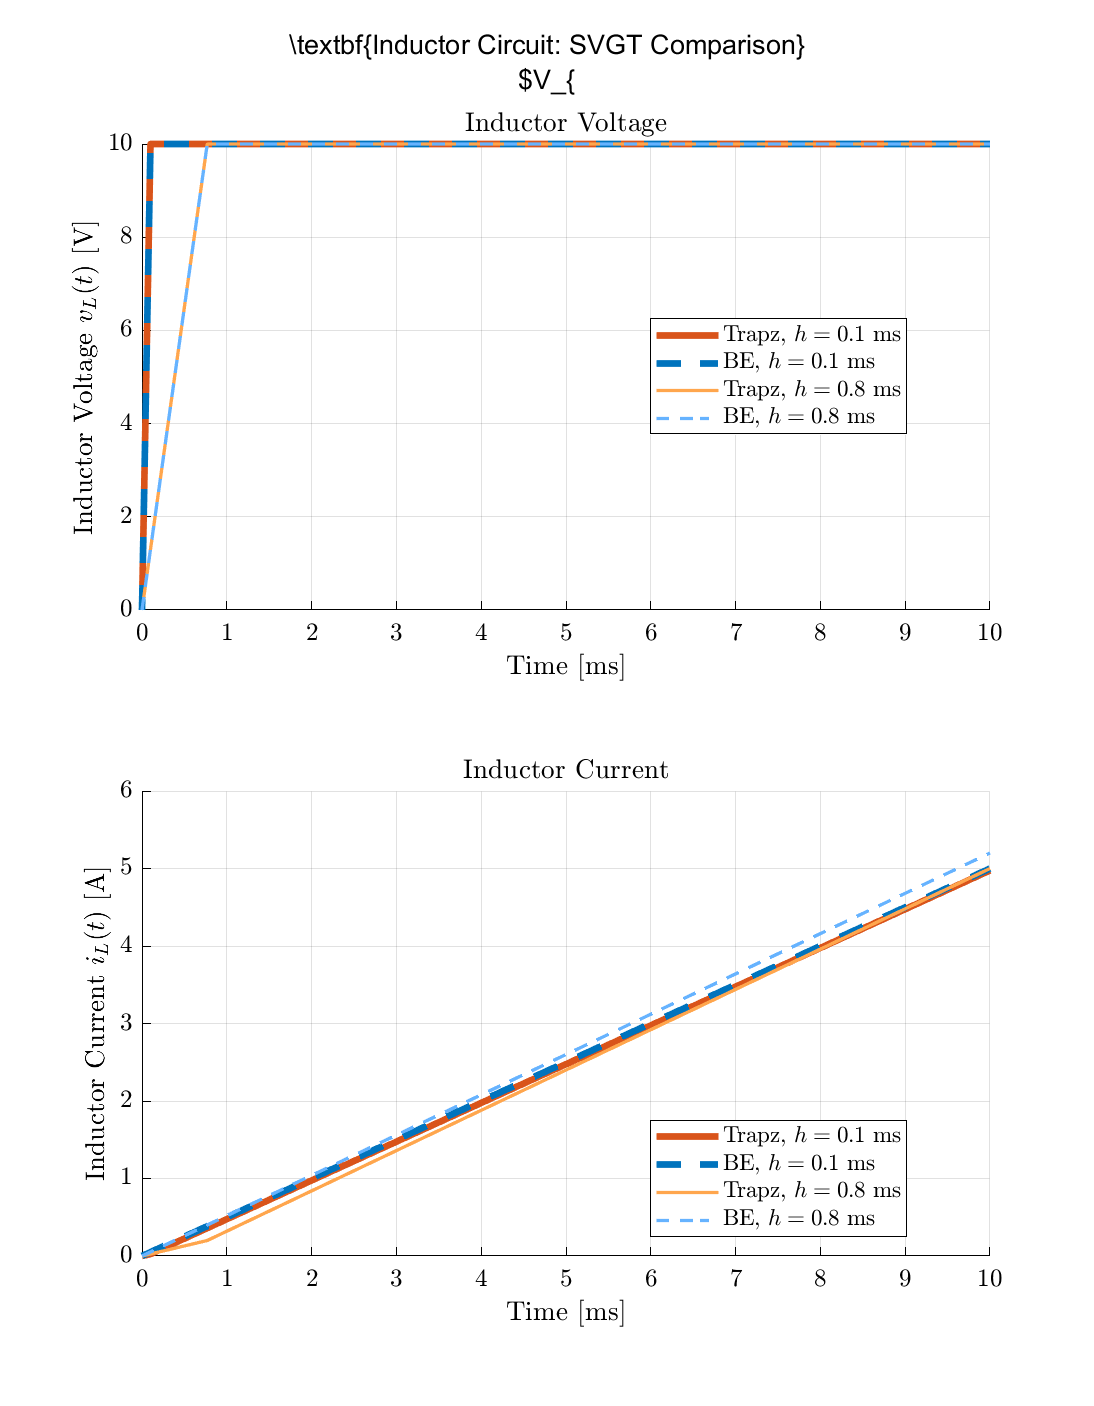
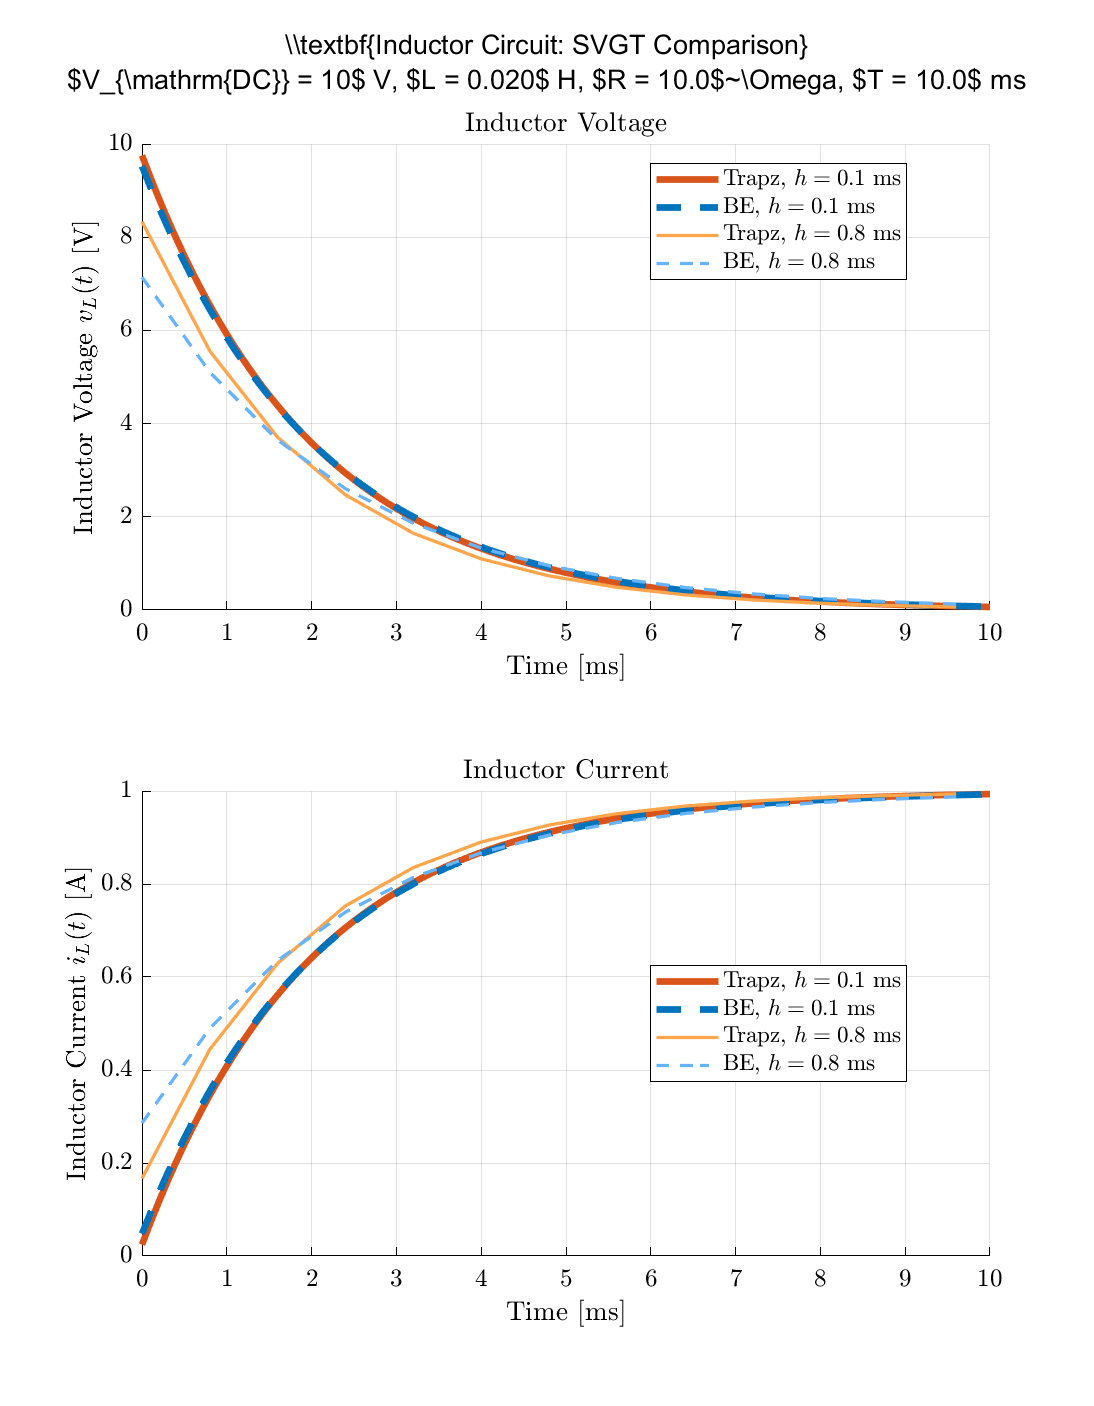
huh?

diff --git a/ee582/src_Hw02/hw02_qB2.m b/ee582/src_Hw02/hw02_qB2.m
@@ -13,71 +13,54 @@ h_steps_ms = [0.1, 0.8]; % Time steps [ms]
 T_horizon_ms = 10;
 T_horizon = T_horizon_ms * 1e-3; % Simulation time [s]
 
+% --- RL Trapezoidal and BE update (corrected) ---
 results = struct();
-
 for h_idx = 1:length(h_steps_ms)
     h_ms = h_steps_ms(h_idx);
     h = h_ms * 1e-3;
-    N = round(T_horizon/h) + 1;
-    t = linspace(0, T_horizon, N);
-    v = V_DC * ones(1, N); v(1) = 0;
-    
-    % --- Trapezoidal ---
+    t = 0:h:T_horizon;
+    N = length(t);
+    % Initial conditions
+    i_trapz = zeros(1, N); vL_trapz = zeros(1, N);
+    i_BE = zeros(1, N); vL_BE = zeros(1, N);
+    % Trapezoidal parameters
     R_L_trapz = 2*L/h;
-    i_trapz = zeros(1, N);
-    v_trapz = zeros(1, N);
-    e_h_trapz = zeros(1, N);
-    i_h_trapz = zeros(1, N);
-    for n = 2:N
-        e_h_trapz(n) = R_L_trapz * i_trapz(n-1) + v(n-1);
-        i_h_trapz(n) = e_h_trapz(n) / R_L_trapz;
-        i_trapz(n) = v(n)/R_L_trapz + i_h_trapz(n);
-        v_trapz(n) = v(n); % For this circuit, v(t) is just the source
+    e_h_trapz = 0;
+    for n = 1:N
+        % Trapezoidal: compute i(t) then vL(t)
+        i_trapz(n) = (V_DC + e_h_trapz) / (R + R_L_trapz);
+        vL_trapz(n) = R_L_trapz * i_trapz(n) - e_h_trapz;
+        % Update history term for next step
+        e_h_trapz = R_L_trapz * i_trapz(n) + vL_trapz(n);
     end
-    
-    % --- Backward Euler ---
+    % Backward Euler parameters
     R_L_BE = L/h;
-    i_BE = zeros(1, N);
-    v_BE = zeros(1, N);
-    e_h_BE = zeros(1, N);
-    i_h_BE = zeros(1, N);
-    for n = 2:N
-        e_h_BE(n) = R_L_BE * i_BE(n-1);
-        i_h_BE(n) = i_BE(n-1);
-        i_BE(n) = v(n)/R_L_BE + i_h_BE(n);
-        v_BE(n) = v(n); % For this circuit, v(t) is just the source
+    e_h_BE = 0;
+    for n = 1:N
+        % BE: i(t) = (V_DC + e_h_BE) / (R + R_L_BE)
+        i_BE(n) = (V_DC + e_h_BE) / (R + R_L_BE);
+        vL_BE(n) = R_L_BE * i_BE(n) - e_h_BE;
+        % Update history term for next step
+        e_h_BE = R_L_BE * i_BE(n);
     end
-    
-    % Store results
     results(h_idx).h_ms = h_ms;
     results(h_idx).t = t;
     results(h_idx).i_trapz = i_trapz;
-    results(h_idx).v_trapz = v_trapz;
+    results(h_idx).vL_trapz = vL_trapz;
     results(h_idx).i_BE = i_BE;
-    results(h_idx).v_BE = v_BE;
+    results(h_idx).vL_BE = vL_BE;
+    results(h_idx).R_L_trapz = R_L_trapz;
+    results(h_idx).R_L_BE = R_L_BE;
 end
 
 %% Plot Results
 figure('Name', 'Inductor SVGT: Trapz vs BE (Both h)', 'Color', 'w', 'Position', [100 100 700 900]);
-sgtitle({'\textbf{Inductor Circuit: SVGT Comparison}', ...
-    sprintf('$V_{\mathrm{DC}} = %.0f$ V, $L = %.3f$ H, $T = %.1f$ ms', V_DC, L, T_horizon*1e3)}, ...
+sgtitle({'\\textbf{Inductor Circuit: SVGT Comparison}', ...
+    sprintf('$V_{\\mathrm{DC}} = %.0f$ V, $L = %.3f$ H, $R = %.1f$~\\Omega, $T = %.1f$ ms', V_DC, L, R, T_horizon*1e3)}, ...
     'Interpreter', 'latex', 'FontSize', 13);
-
-% --- Voltage subplot (top) ---
-subplot(2,1,1); hold on;
-plot(results(1).t*1e3, results(1).v_trapz, '-', 'Color', [0.85, 0.33, 0.10], 'LineWidth', 3.2, 'DisplayName', 'Trapz, $h=0.1$ ms');
-plot(results(1).t*1e3, results(1).v_BE, '--', 'Color', [0.00, 0.45, 0.74], 'LineWidth', 3.2, 'DisplayName', 'BE, $h=0.1$ ms');
-plot(results(2).t*1e3, results(2).v_trapz, '-', 'Color', [1.0, 0.65, 0.30], 'LineWidth', 1.6, 'DisplayName', 'Trapz, $h=0.8$ ms');
-plot(results(2).t*1e3, results(2).v_BE, '--', 'Color', [0.40, 0.70, 1.00], 'LineWidth', 1.6, 'DisplayName', 'BE, $h=0.8$ ms');
-grid on;
-xlabel('Time [ms]', 'Interpreter', 'latex');
-ylabel('Inductor Voltage $v_L(t)$ [V]', 'Interpreter', 'latex');
-title('Inductor Voltage', 'Interpreter', 'latex');
-legend('Location', 'best', 'Interpreter', 'latex');
 
 % --- Current subplot (bottom) ---
 subplot(2,1,2); hold on;
-% Style: Trapz 0.1ms = thick solid, BE 0.1ms = thick dashed, Trapz 0.8ms = thin solid, BE 0.8ms = thin dashed
 plot(results(1).t*1e3, results(1).i_trapz, '-', 'Color', [0.85, 0.33, 0.10], 'LineWidth', 3.2, 'DisplayName', 'Trapz, $h=0.1$ ms');
 plot(results(1).t*1e3, results(1).i_BE, '--', 'Color', [0.00, 0.45, 0.74], 'LineWidth', 3.2, 'DisplayName', 'BE, $h=0.1$ ms');
 plot(results(2).t*1e3, results(2).i_trapz, '-', 'Color', [1.0, 0.65, 0.30], 'LineWidth', 1.6, 'DisplayName', 'Trapz, $h=0.8$ ms');
@@ -88,23 +71,37 @@ ylabel('Inductor Current $i_L(t)$ [A]', 'Interpreter', 'latex');
 title('Inductor Current', 'Interpreter', 'latex');
 legend('Location', 'best', 'Interpreter', 'latex');
 
+% --- Voltage subplot (top) ---
+subplot(2,1,1); hold on;
+plot(results(1).t*1e3, results(1).vL_trapz, '-', 'Color', [0.85, 0.33, 0.10], 'LineWidth', 3.2, 'DisplayName', 'Trapz, $h=0.1$ ms');
+plot(results(1).t*1e3, results(1).vL_BE, '--', 'Color', [0.00, 0.45, 0.74], 'LineWidth', 3.2, 'DisplayName', 'BE, $h=0.1$ ms');
+plot(results(2).t*1e3, results(2).vL_trapz, '-', 'Color', [1.0, 0.65, 0.30], 'LineWidth', 1.6, 'DisplayName', 'Trapz, $h=0.8$ ms');
+plot(results(2).t*1e3, results(2).vL_BE, '--', 'Color', [0.40, 0.70, 1.00], 'LineWidth', 1.6, 'DisplayName', 'BE, $h=0.8$ ms');
+grid on;
+xlabel('Time [ms]', 'Interpreter', 'latex');
+ylabel('Inductor Voltage $v_L(t)$ [V]', 'Interpreter', 'latex');
+title('Inductor Voltage', 'Interpreter', 'latex');
+legend('Location', 'best', 'Interpreter', 'latex');
+
 % Save figure
 figuresFolder = "../tex_Hw02/figures/";
 if ~exist(figuresFolder, 'dir'), mkdir(figuresFolder); end
 saveas(gcf, fullfile(figuresFolder, 'hw02_qB2_svgt_comparison.png'));
 
-%% Print Tables (first 6 steps for each method/step)
+% --- Print Tables (first 6 steps for each method/step) ---
 for h_idx = 1:length(h_steps_ms)
-    fprintf('\n=== Trapezoidal Table (h = %.1f ms) ===\n', h_steps_ms(h_idx));
-    fprintf('%-8s %-12s %-12s\n', 't [ms]', 'v(t) [V]', 'i(t) [A]');
+    fprintf('\nTrapezoidal: R_L = %.6f Ohm\n', results(h_idx).R_L_trapz);
+    fprintf('=== Trapezoidal Table (h = %.1f ms) ===\n', h_steps_ms(h_idx));
+    fprintf('%-8s %-12s %-12s\n', 't [ms]', 'v_L(t) [V]', 'i(t) [A]');
     fprintf('%s\n', repmat('-',1,36));
     for n = 1:min(6, length(results(h_idx).t))
-        fprintf('%-8.3f %-12.6f %-12.6f\n', results(h_idx).t(n)*1e3, results(h_idx).v_trapz(n), results(h_idx).i_trapz(n));
+        fprintf('%-8.3f %-12.6f %-12.6f\n', results(h_idx).t(n)*1e3, results(h_idx).vL_trapz(n), results(h_idx).i_trapz(n));
     end
-    fprintf('\n=== Backward Euler Table (h = %.1f ms) ===\n', h_steps_ms(h_idx));
-    fprintf('%-8s %-12s %-12s\n', 't [ms]', 'v(t) [V]', 'i(t) [A]');
+    fprintf('\nBackward Euler: R_L = %.6f Ohm\n', results(h_idx).R_L_BE);
+    fprintf('=== Backward Euler Table (h = %.1f ms) ===\n', h_steps_ms(h_idx));
+    fprintf('%-8s %-12s %-12s\n', 't [ms]', 'v_L(t) [V]', 'i(t) [A]');
     fprintf('%s\n', repmat('-',1,36));
     for n = 1:min(6, length(results(h_idx).t))
-        fprintf('%-8.3f %-12.6f %-12.6f\n', results(h_idx).t(n)*1e3, results(h_idx).v_BE(n), results(h_idx).i_BE(n));
+        fprintf('%-8.3f %-12.6f %-12.6f\n', results(h_idx).t(n)*1e3, results(h_idx).vL_BE(n), results(h_idx).i_BE(n));
     end
 end
